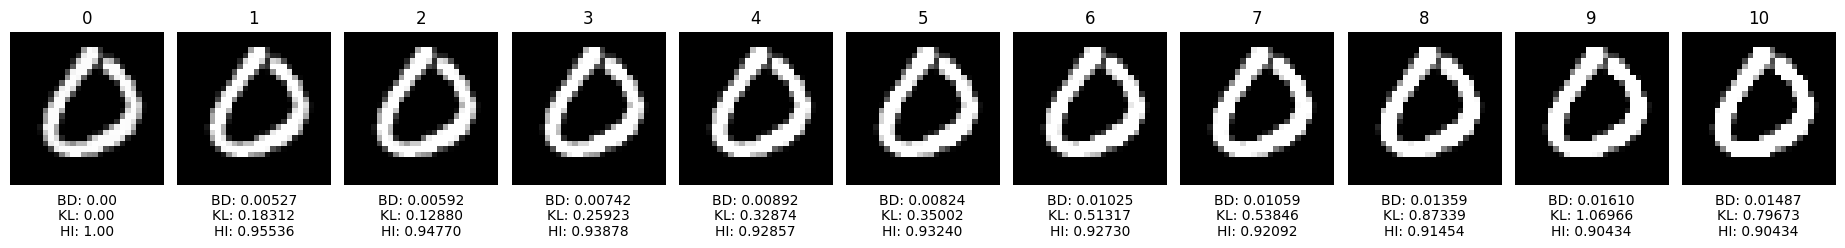
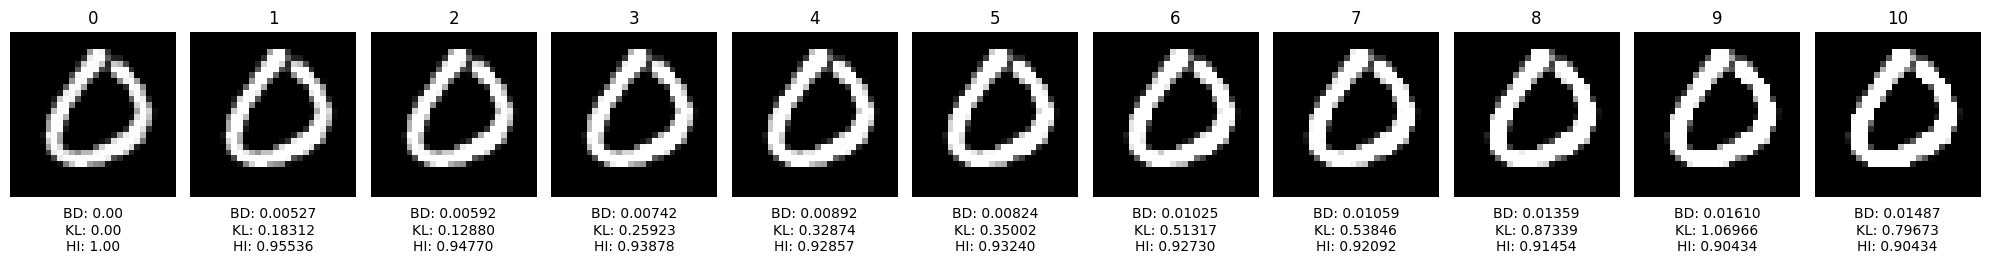
Creating pertubation images, setting levels

diff --git a/utils/perturbation_levels.py b/utils/perturbation_levels.py
@@ -42,113 +42,113 @@ PERTURBATION_LEVELS = {
         {'brightness': 1.0}
     ],
     'defocus_blur': [
-        {'kernel_size': 3, 'blur_amount': 1.0},
-        {'kernel_size': 3, 'blur_amount': 1.0},
-        {'kernel_size': 3, 'blur_amount': 1.0},
-        {'kernel_size': 3, 'blur_amount': 1.0},
-        {'kernel_size': 3, 'blur_amount': 1.0},
-        {'kernel_size': 3, 'blur_amount': 1.0},
-        {'kernel_size': 3, 'blur_amount': 1.0},
-        {'kernel_size': 3, 'blur_amount': 1.0},
-        {'kernel_size': 3, 'blur_amount': 1.0},
+        {'kernel_size': 3, 'blur_amount': 0.1},
+        {'kernel_size': 3, 'blur_amount': 0.2},
+        {'kernel_size': 3, 'blur_amount': 0.3},
+        {'kernel_size': 3, 'blur_amount': 0.4},
+        {'kernel_size': 3, 'blur_amount': 0.5},
+        {'kernel_size': 3, 'blur_amount': 0.6},
+        {'kernel_size': 3, 'blur_amount': 0.7},
+        {'kernel_size': 3, 'blur_amount': 0.8},
+        {'kernel_size': 3, 'blur_amount': 0.9},
         {'kernel_size': 3, 'blur_amount': 1.0}   
     ],
     'fog': [
-        {'fog_level': 1.0, 'fog_density': 1.0},
-        {'fog_level': 1.0, 'fog_density': 1.0},
-        {'fog_level': 1.0, 'fog_density': 1.0},
-        {'fog_level': 1.0, 'fog_density': 1.0},
-        {'fog_level': 1.0, 'fog_density': 1.0},
-        {'fog_level': 1.0, 'fog_density': 1.0},
-        {'fog_level': 1.0, 'fog_density': 1.0},
-        {'fog_level': 1.0, 'fog_density': 1.0},
-        {'fog_level': 1.0, 'fog_density': 1.0},
+        {'fog_level': 0.1, 'fog_density': 0.1},
+        {'fog_level': 0.2, 'fog_density': 0.2},
+        {'fog_level': 0.3, 'fog_density': 0.3},
+        {'fog_level': 0.4, 'fog_density': 0.4},
+        {'fog_level': 0.5, 'fog_density': 0.5},
+        {'fog_level': 0.6, 'fog_density': 0.6},
+        {'fog_level': 0.7, 'fog_density': 0.7},
+        {'fog_level': 0.8, 'fog_density': 0.8},
+        {'fog_level': 0.9, 'fog_density': 0.9},
         {'fog_level': 1.0, 'fog_density': 1.0}
     ],
     'frost': [
-        {'frost_level': 1.0, 'frost_sigma': 1.0, 'frost_threshold': 1.0, 'blur_kernel_size': 3, 'blur_sigma': 1.0},
-        {'frost_level': 1.0, 'frost_sigma': 1.0, 'frost_threshold': 1.0, 'blur_kernel_size': 3, 'blur_sigma': 1.0},
-        {'frost_level': 1.0, 'frost_sigma': 1.0, 'frost_threshold': 1.0, 'blur_kernel_size': 3, 'blur_sigma': 1.0},
-        {'frost_level': 1.0, 'frost_sigma': 1.0, 'frost_threshold': 1.0, 'blur_kernel_size': 3, 'blur_sigma': 1.0},
-        {'frost_level': 1.0, 'frost_sigma': 1.0, 'frost_threshold': 1.0, 'blur_kernel_size': 3, 'blur_sigma': 1.0},
-        {'frost_level': 1.0, 'frost_sigma': 1.0, 'frost_threshold': 1.0, 'blur_kernel_size': 3, 'blur_sigma': 1.0},
-        {'frost_level': 1.0, 'frost_sigma': 1.0, 'frost_threshold': 1.0, 'blur_kernel_size': 3, 'blur_sigma': 1.0},
-        {'frost_level': 1.0, 'frost_sigma': 1.0, 'frost_threshold': 1.0, 'blur_kernel_size': 3, 'blur_sigma': 1.0},
-        {'frost_level': 1.0, 'frost_sigma': 1.0, 'frost_threshold': 1.0, 'blur_kernel_size': 3, 'blur_sigma': 1.0},
-        {'frost_level': 1.0, 'frost_sigma': 1.0, 'frost_threshold': 1.0, 'blur_kernel_size': 3, 'blur_sigma': 1.0}
+        {'frost_level': 0.1, 'frost_sigma': 0.5, 'frost_threshold': 0.5, 'blur_kernel_size': 3, 'blur_sigma': 0.5},
+        {'frost_level': 0.2, 'frost_sigma': 0.5, 'frost_threshold': 0.5, 'blur_kernel_size': 3, 'blur_sigma': 0.5},
+        {'frost_level': 0.3, 'frost_sigma': 0.5, 'frost_threshold': 0.5, 'blur_kernel_size': 3, 'blur_sigma': 0.5},
+        {'frost_level': 0.4, 'frost_sigma': 0.5, 'frost_threshold': 0.5, 'blur_kernel_size': 3, 'blur_sigma': 0.5},
+        {'frost_level': 0.5, 'frost_sigma': 0.5, 'frost_threshold': 0.5, 'blur_kernel_size': 3, 'blur_sigma': 0.5},
+        {'frost_level': 0.6, 'frost_sigma': 0.5, 'frost_threshold': 0.5, 'blur_kernel_size': 3, 'blur_sigma': 0.5},
+        {'frost_level': 0.7, 'frost_sigma': 0.5, 'frost_threshold': 0.5, 'blur_kernel_size': 3, 'blur_sigma': 0.5},
+        {'frost_level': 0.8, 'frost_sigma': 0.5, 'frost_threshold': 0.5, 'blur_kernel_size': 3, 'blur_sigma': 0.5},
+        {'frost_level': 0.9, 'frost_sigma': 0.5, 'frost_threshold': 0.5, 'blur_kernel_size': 3, 'blur_sigma': 0.5},
+        {'frost_level': 1.0, 'frost_sigma': 0.5, 'frost_threshold': 0.5, 'blur_kernel_size': 3, 'blur_sigma': 0.5}
     ],
     'gaussian_noise': [
-        {'mean': 0.0, 'std': 1.0},
-        {'mean': 0.0, 'std': 1.0},
-        {'mean': 0.0, 'std': 1.0},
-        {'mean': 0.0, 'std': 1.0},
-        {'mean': 0.0, 'std': 1.0},
-        {'mean': 0.0, 'std': 1.0},
-        {'mean': 0.0, 'std': 1.0},
-        {'mean': 0.0, 'std': 1.0},
-        {'mean': 0.0, 'std': 1.0},
-        {'mean': 0.0, 'std': 1.0}
+        {'mean': 0.05, 'std': 0.25},
+        {'mean': 0.1, 'std': 0.25},
+        {'mean': 0.15, 'std': 0.25},
+        {'mean': 0.2, 'std': 0.25},
+        {'mean': 0.25, 'std': 0.25},
+        {'mean': 0.3, 'std': 0.25},
+        {'mean': 0.35, 'std': 0.25},
+        {'mean': 0.4, 'std': 0.25},
+        {'mean': 0.45, 'std': 0.25},
+        {'mean': 0.5, 'std': 0.25}
     ],
     'impulse_noise': [
-        {'density': 1.0, 'intensity': 1.0},
-        {'density': 1.0, 'intensity': 1.0},
-        {'density': 1.0, 'intensity': 1.0},
-        {'density': 1.0, 'intensity': 1.0},
-        {'density': 1.0, 'intensity': 1.0},
-        {'density': 1.0, 'intensity': 1.0},
-        {'density': 1.0, 'intensity': 1.0},
-        {'density': 1.0, 'intensity': 1.0},
-        {'density': 1.0, 'intensity': 1.0},
-        {'density': 1.0, 'intensity': 1.0}
+        {'density': 0.25, 'intensity': 1},
+        {'density': 0.3, 'intensity': 1},
+        {'density': 0.35, 'intensity': 1},
+        {'density': 0.4, 'intensity': 1},
+        {'density': 0.45, 'intensity': 1},
+        {'density': 0.5, 'intensity': 1},
+        {'density': 0.55, 'intensity': 1},
+        {'density': 0.6, 'intensity': 1},
+        {'density': 0.65, 'intensity': 1},
+        {'density': 0.7, 'intensity': 1},
     ],
     'motion_blur': [
-        {'kernel_size': 3, 'angle': 0.0, 'direction': 1.0},
-        {'kernel_size': 3, 'angle': 0.0, 'direction': 1.0},
-        {'kernel_size': 3, 'angle': 0.0, 'direction': 1.0},
-        {'kernel_size': 3, 'angle': 0.0, 'direction': 1.0},
-        {'kernel_size': 3, 'angle': 0.0, 'direction': 1.0},
-        {'kernel_size': 3, 'angle': 0.0, 'direction': 1.0},
-        {'kernel_size': 3, 'angle': 0.0, 'direction': 1.0},
-        {'kernel_size': 3, 'angle': 0.0, 'direction': 1.0},
-        {'kernel_size': 3, 'angle': 0.0, 'direction': 1.0},
-        {'kernel_size': 3, 'angle': 0.0, 'direction': 1.0}
+        {'kernel_size': 1, 'angle': 0.0, 'direction': (1.0, 0.0)},
+        {'kernel_size': 2, 'angle': 0.0, 'direction': (2.0, 0.0)},
+        {'kernel_size': 3, 'angle': 0.0, 'direction': (3.0, 0.0)},
+        {'kernel_size': 4, 'angle': 0.0, 'direction': (4.0, 0.0)},
+        {'kernel_size': 5, 'angle': 0.0, 'direction': (5.0, 0.0)},
+        {'kernel_size': 6, 'angle': 0.0, 'direction': (6.0, 0.0)},
+        {'kernel_size': 7, 'angle': 0.0, 'direction': (7.0, 0.0)},
+        {'kernel_size': 8, 'angle': 0.0, 'direction': (8.0, 0.0)},
+        {'kernel_size': 9, 'angle': 0.0, 'direction': (9.0, 0.0)},
+        {'kernel_size': 10, 'angle': 0.0, 'direction': (10.0, 0.0)}
     ],
     'pixelation': [
-        {'factor': 1.0},
-        {'factor': 1.0},
-        {'factor': 1.0},
-        {'factor': 1.0},
-        {'factor': 1.0},
-        {'factor': 1.0},
-        {'factor': 1.0},
-        {'factor': 1.0},
-        {'factor': 1.0},
-        {'factor': 1.0}
+            {'factor': 0.7},
+            {'factor': 0.81},
+            {'factor': 0.84},
+            {'factor': 1.1},
+            {'factor': 1.2},
+            {'factor': 1.3},
+            {'factor': 1.4},
+            {'factor': 1.41},
+            {'factor': 1.5},
+            {'factor': 1.6}
     ],
     'shot_noise': [
-        {'intensity': 1.0},
-        {'intensity': 1.0},
-        {'intensity': 1.0},
-        {'intensity': 1.0},
-        {'intensity': 1.0},
-        {'intensity': 1.0},
-        {'intensity': 1.0},
-        {'intensity': 1.0},
-        {'intensity': 1.0},
+        {'intensity': 0.1},
+        {'intensity': 0.2},
+        {'intensity': 0.3},
+        {'intensity': 0.4},
+        {'intensity': 0.5},
+        {'intensity': 0.6},
+        {'intensity': 0.7},
+        {'intensity': 0.8},
+        {'intensity': 0.9},
         {'intensity': 1.0}
     ],
     'snow': [
-        {'snow_level': 1.0, 'snow_color': 1.0, 'blur_kernel_size': 3, 'blur_sigma': 1.0},
-        {'snow_level': 1.0, 'snow_color': 1.0, 'blur_kernel_size': 3, 'blur_sigma': 1.0},
-        {'snow_level': 1.0, 'snow_color': 1.0, 'blur_kernel_size': 3, 'blur_sigma': 1.0},
-        {'snow_level': 1.0, 'snow_color': 1.0, 'blur_kernel_size': 3, 'blur_sigma': 1.0},
-        {'snow_level': 1.0, 'snow_color': 1.0, 'blur_kernel_size': 3, 'blur_sigma': 1.0},
-        {'snow_level': 1.0, 'snow_color': 1.0, 'blur_kernel_size': 3, 'blur_sigma': 1.0},
-        {'snow_level': 1.0, 'snow_color': 1.0, 'blur_kernel_size': 3, 'blur_sigma': 1.0},
-        {'snow_level': 1.0, 'snow_color': 1.0, 'blur_kernel_size': 3, 'blur_sigma': 1.0},
-        {'snow_level': 1.0, 'snow_color': 1.0, 'blur_kernel_size': 3, 'blur_sigma': 1.0},
-        {'snow_level': 1.0, 'snow_color': 1.0, 'blur_kernel_size': 3, 'blur_sigma': 1.0}
-    ],
+            {'snow_level': 0.81, 'snow_color': 1.0, 'blur_kernel_size': 5, 'blur_sigma': 1.0},
+            {'snow_level': 0.82, 'snow_color': 1.0, 'blur_kernel_size': 5, 'blur_sigma': 1.0},
+            {'snow_level': 0.83, 'snow_color': 1.0, 'blur_kernel_size': 4, 'blur_sigma': 1.0},
+            {'snow_level': 0.84, 'snow_color': 1.0, 'blur_kernel_size': 3, 'blur_sigma': 1.0},
+            {'snow_level': 0.85, 'snow_color': 1.0, 'blur_kernel_size': 2, 'blur_sigma': 1.0},
+            {'snow_level': 0.86, 'snow_color': 1.0, 'blur_kernel_size': 2, 'blur_sigma': 1.0},
+            {'snow_level': 0.87, 'snow_color': 1.0, 'blur_kernel_size': 2, 'blur_sigma': 1.0},
+            {'snow_level': 0.88, 'snow_color': 1.0, 'blur_kernel_size': 2, 'blur_sigma': 1.0},
+            {'snow_level': 0.89, 'snow_color': 1.0, 'blur_kernel_size': 2, 'blur_sigma': 1.0},
+            {'snow_level': 0.9, 'snow_color': 1.0, 'blur_kernel_size': 2, 'blur_sigma': 1.0}
+        ],
     'zoom_blur': [
         {'kernel_size': 3, 'strength': 1.0},
         {'kernel_size': 3, 'strength': 1.0},

diff --git a/utils/perturbations.py b/utils/perturbations.py
@@ -54,7 +54,7 @@ class Perturbation:
             ndarray: The image with added contrast.
         """
         contrast_level = kwargs.get('contrast_level', 0.1)
-        mean_pixel = np.mean(image.numpy())
+        mean_pixel = np.mean(image)
         noisy_image = np.clip((image - mean_pixel) * (1 + contrast_level), *self.pixel_range)
         return noisy_image    
 
@@ -114,12 +114,13 @@ class Perturbation:
             ndarray: The frost-covered image.
         """
         height, width = image.shape
-        frost_mask = np.random.normal(loc=0.5, scale=frost_sigma, size=(height, width))
+        frost_mask = np.random.normal(loc=0.0, scale=frost_sigma, size=(height, width))
         frost_mask[frost_mask < frost_threshold] = 0
         frost_mask[frost_mask >= frost_threshold] = 1
         frost_mask = np.clip(frost_mask + np.random.normal(scale=0.1, size=(height, width)), 0, 1)
         frost_mask = cv2.GaussianBlur(frost_mask, (blur_kernel_size, blur_kernel_size), blur_sigma)
-        frost_image = np.where(frost_mask == 1, np.random.normal(scale=0.1, size=(height, width)), 0)
+        # print(np.round(np.unique(frost_mask), decimals=2)) frost_mask < 0.45 should be about 50% of the pixels
+        frost_image = np.where(frost_mask < 0.45, np.random.normal(scale=0.1, size=(height, width)), 0)
         noisy_image = np.clip(image + frost_level * frost_image, *self.pixel_range)
         return noisy_image    
 
@@ -229,6 +230,7 @@ class Perturbation:
         """
         h, w = image.shape
         h_new, w_new = h // factor, w // factor
+        h_new, w_new = int(h_new), int(w_new) # convert to integers
         image_small = cv2.resize(image, (w_new, h_new), interpolation=cv2.INTER_AREA)
         image_large = cv2.resize(image_small, (w, h), interpolation=cv2.INTER_NEAREST)
         pixelated_image = ((image_large - image_large.min()) / (image_large.max() - image_large.min())) * (self.pixel_range[1] - self.pixel_range[0]) + self.pixel_range[0]
@@ -268,6 +270,8 @@ class Perturbation:
         height, width = image.shape
         snow_mask = np.zeros((height, width))
         snow_mask[np.random.random((height, width)) < snow_level] = 1
+        if blur_kernel_size % 2 == 0:
+            blur_kernel_size += 1
         snow_mask = cv2.GaussianBlur(snow_mask, (blur_kernel_size, blur_kernel_size), blur_sigma)
         snow_mask = np.clip(snow_mask, 0, 1)
         snow_image = np.zeros_like(image)

diff --git a/unit-tests/unit-tests.py b/unit-tests/unit-tests.py
@@ -17,7 +17,10 @@ from utils.perturbation_levels import PERTURBATION_LEVELS
 # Evaluate the model on the test dataset for different values of noise
 pt = Perturbation()
 # Note, (-1, 1) is the range of values for the MNIST dataset
-dm = DistanceMetric(num_channels=1, num_bins=40, val_range=(-1,1))
+# perturbation type
+key = 'snow'
+num_bins = 10
+dm = DistanceMetric(num_channels=1, num_bins=num_bins, val_range=(-1,1))
 
 # show image
 from PIL import Image
@@ -39,7 +42,9 @@ from matplotlib.ticker import MaxNLocator
 with open(current_dir + '/images/original_array.pkl', 'rb') as f:
     original_array = pickle.load(f)
 
+# plt.suptitle('Perturbations type: ' + key, fontsize=16)
 fig, axs = plt.subplots(1, 11, figsize=(20, 20))
+# fig.suptitle('Perturbations type: {}, number of bins: {}'.format(key, num_bins), fontsize=16)
 #for i in range(11):
 axs[0].imshow(original_array, cmap='gray')
 axs[0].axis('off')
@@ -56,7 +61,7 @@ axs[0].text(0.5, -0.3, f'HI: {hi:.2f}', ha='center', va='center', transform=axs[
 
 perturbed_arrays= []
 
-key = 'brightness'
+
 for k in range(0, len(PERTURBATION_LEVELS[key])):
     kwargs = PERTURBATION_LEVELS[key][k]
     print(kwargs)
@@ -79,5 +84,5 @@ for k in range(0, len(PERTURBATION_LEVELS[key])):
 plt.tight_layout()  # Reduce spacing and adjust borders    
 plt.show()
 # save the plot
-fig.savefig(current_dir + '/images/brightness_perturbations_30_bins.png', bbox_inches='tight')
+fig.savefig(current_dir + f'/images/{key}_perturbations_{num_bins}_bins.png', bbox_inches='tight')
 

diff --git a/utils/scratch.py b/utils/scratch.py
@@ -1,0 +1,28 @@
+import numpy as np, matplotlib.pyplot as plt
+p=[0,0.1,0.2,0.3,0.4,0.5,0.6,0.7,0.8,0.9,1]
+i=0
+pdf=[[1,1,1,1,1,1,1,1,1,1,1]]
+
+pl=plt.plot(p,pdf[i])
+
+# Basic set up - heads every time.
+for i in range(1,10):
+    pdf.append([])
+    for j in range (0,11):
+        pdf[i].append(pdf[i-1][j]*p[j])
+    pl=plt.plot(p,pdf[i])
+plt.show()
+
+import numpy as np
+from scipy.stats import norm
+
+def gaussian_pdf(x, mu, sigma2):
+
+    sigma = np.sqrt(sigma2)
+    return norm.pdf(x, mu, sigma)
+
+x_values = np.linspace(0, 10, 1000)
+mu = 5
+sigma2 = 4
+pdf_values = gaussian_pdf(x_values, mu, sigma2)
+print(pdf_values)
